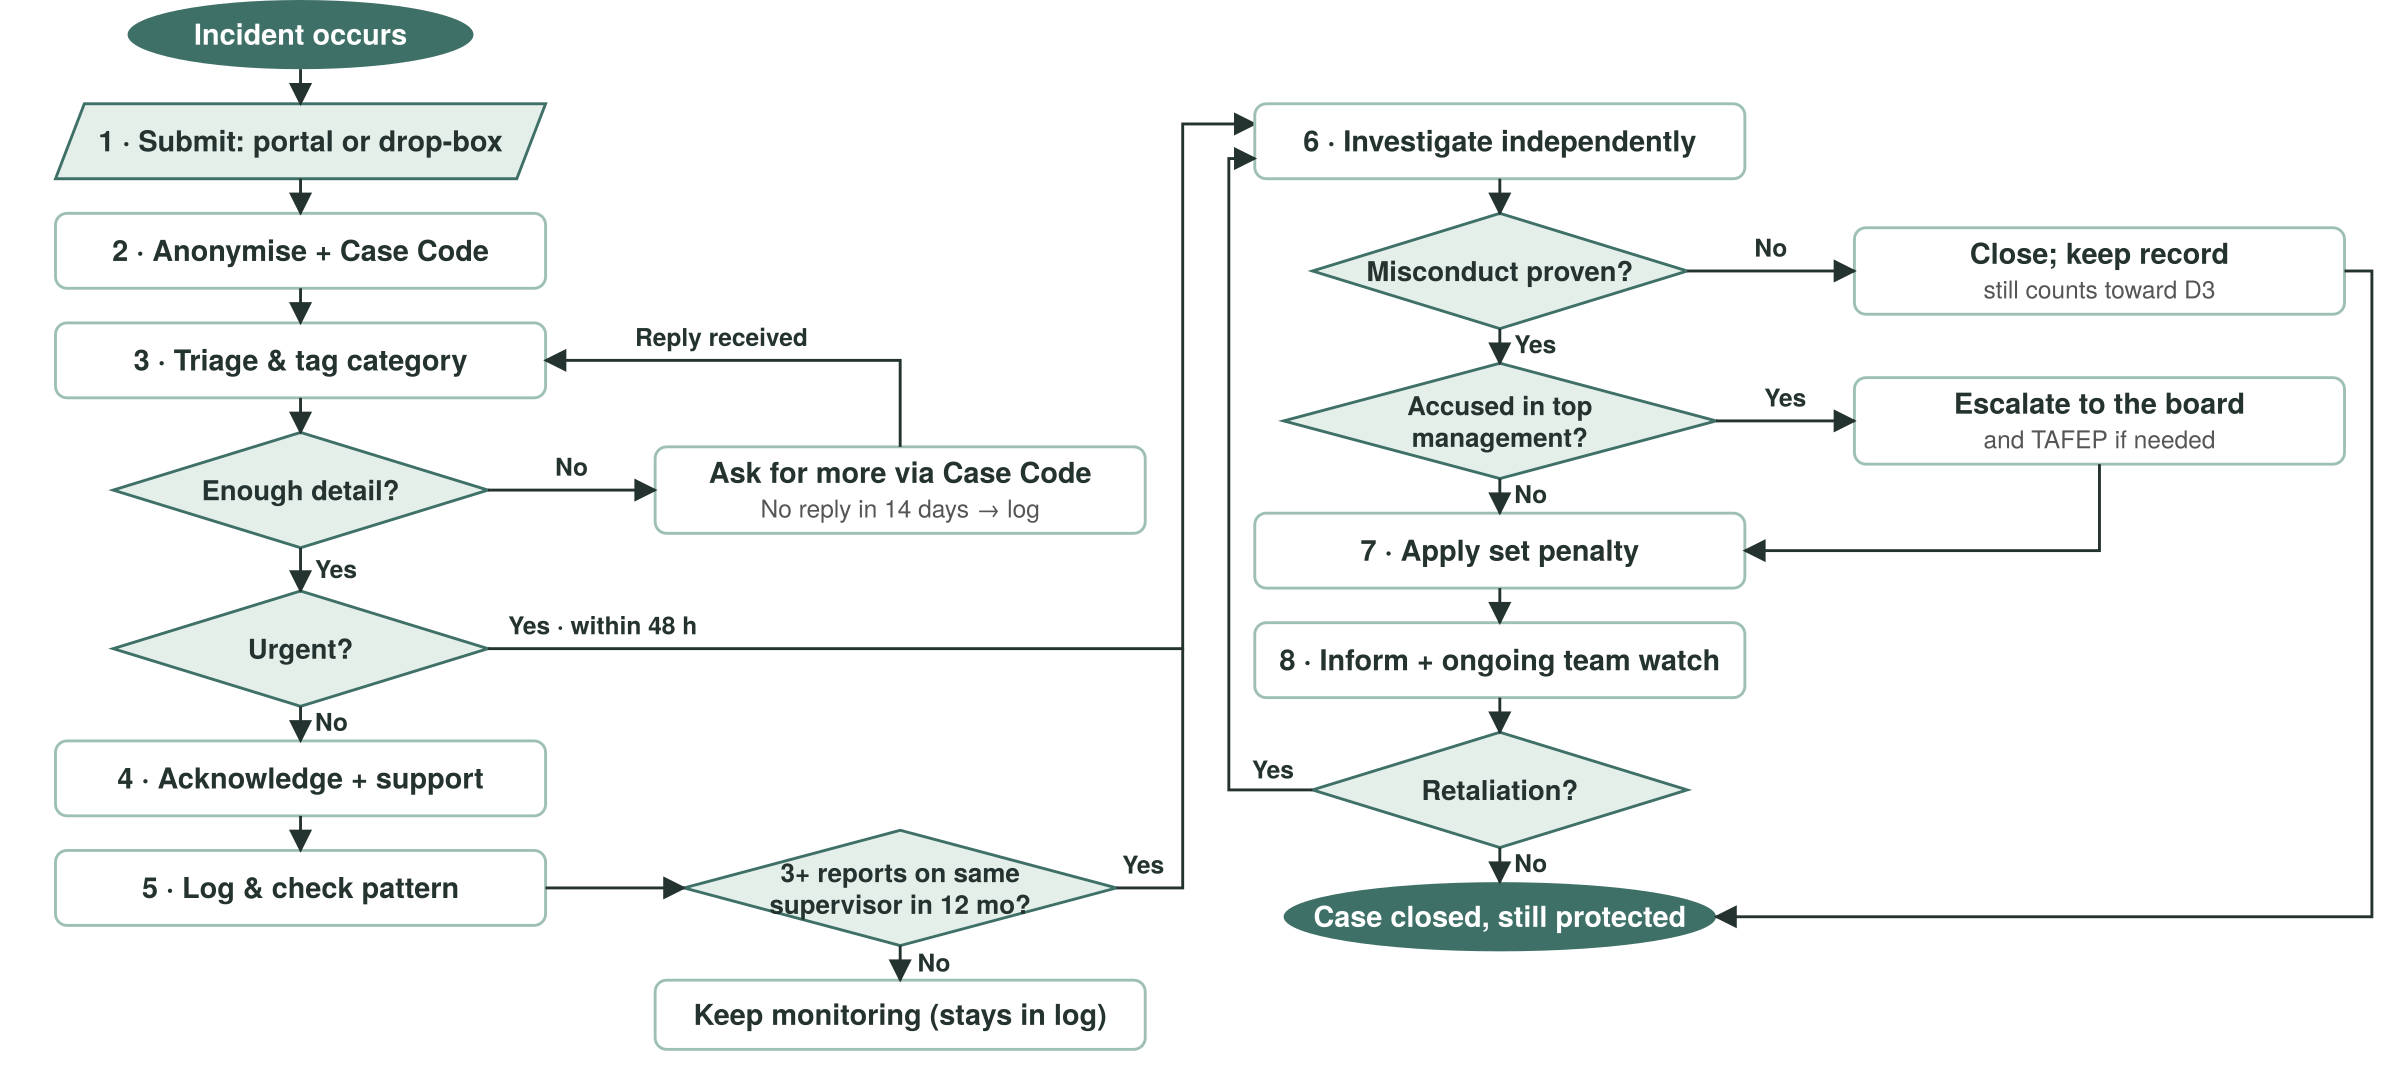
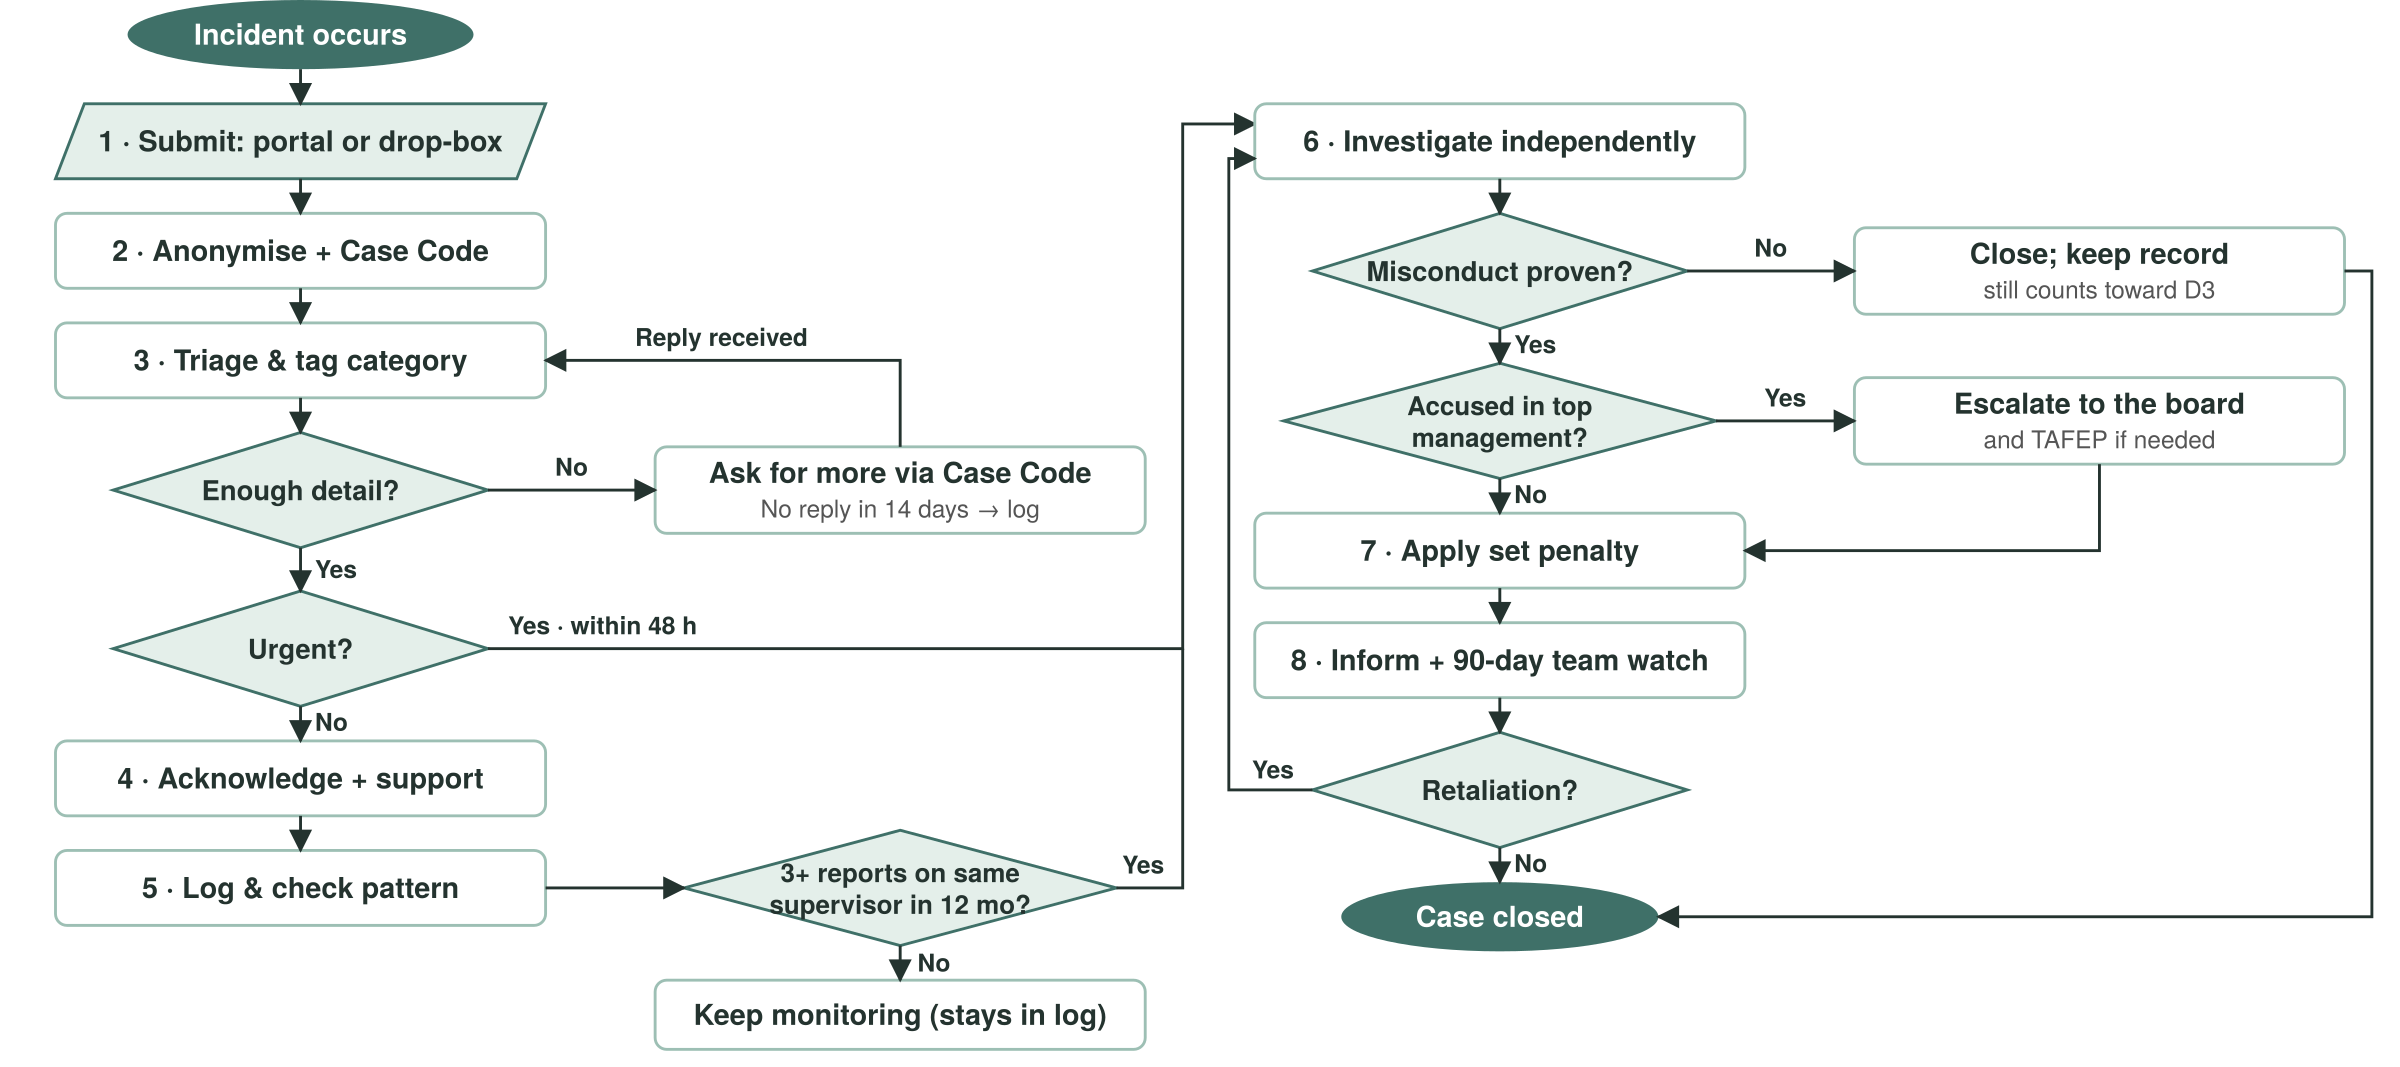
Change anti-retaliation protection back to a 90-day watch
Restore the 90-day watch across the hero, solution parts, steps, FAQ,
case tracker stages, README and flowchart, to match the presentation.

Claude-Session: https://claude.ai/code/session_013YJFtZv1miuyCez8THNWH7

Changed region(s): [[0.5312, 0.5876, 0.7188, 0.6495], [0.5312, 0.8351, 0.7188, 0.8969]]

diff --git a/index.html b/index.html
@@ -50,7 +50,7 @@
         <div class="hero-card" aria-label="SpeakSafe promises">
           <div class="promise"><span class="promise-num">48 h</span><span class="promise-txt">Urgent cases investigated</span></div>
           <div class="promise"><span class="promise-num">0</span><span class="promise-txt">Names, staff IDs or IP addresses stored</span></div>
-          <div class="promise"><span class="promise-num">Always</span><span class="promise-txt">Protection from retaliation, with no time limit</span></div>
+          <div class="promise"><span class="promise-num">90 days</span><span class="promise-txt">Protection from retaliation after every outcome</span></div>
         </div>
       </div>
     </section>
@@ -93,7 +93,7 @@
           <article class="part"><span class="part-num">03</span><h3>Independent third party</h3><p>Reports go to an external investigator, never your line manager or internal HR.</p></article>
           <article class="part"><span class="part-num">04</span><h3>Fixed triage rules</h3><p>Urgent cases are investigated within 48 hours. Three or more reports on one supervisor in 12 months trigger an audit.</p></article>
           <article class="part"><span class="part-num">05</span><h3>Zero-tolerance penalties</h3><p>Set penalties for proven abuse. Cases about top management go to the board, so no one decides their own penalty.</p></article>
-          <article class="part"><span class="part-num">06</span><h3>Protection with no time limit</h3><p>Your team is watched for sudden dismissals, pay cuts or transfers for as long as you work there.</p></article>
+          <article class="part"><span class="part-num">06</span><h3>90-day protection</h3><p>Your team is watched for sudden dismissals, pay cuts or transfers for 90 days after every outcome.</p></article>
           <article class="part"><span class="part-num">07</span><h3>Prevention training</h3><p>Every manager completes yearly anti-bullying training.</p></article>
         </div>
       </div>
@@ -112,7 +112,7 @@
           <li class="step"><span class="step-num">5</span><div><h3>Log &amp; check for a pattern</h3><p>Anonymised details are stored.</p><p class="decision">3+ reports on one supervisor in 12 months? Yes → formal audit.</p></div></li>
           <li class="step"><span class="step-num">6</span><div><h3>Investigate</h3><p>An independent third party gathers evidence. Your name is never revealed.</p><p class="decision">Proven? No → case closed, record kept.</p></div></li>
           <li class="step"><span class="step-num">7</span><div><h3>Penalise</h3><p>Warning, coaching, reassignment or termination, matched to severity.</p><p class="decision">Top management? Yes → escalated to the board or TAFEP.</p></div></li>
-          <li class="step"><span class="step-num">8</span><div><h3>Protect</h3><p>You are told the outcome, and your team stays protected with no time limit.</p><p class="decision">Retaliation? Yes → new urgent case.</p></div></li>
+          <li class="step"><span class="step-num">8</span><div><h3>Protect</h3><p>You are told the outcome, and your team is watched for 90 days.</p><p class="decision">Retaliation? Yes → new urgent case.</p></div></li>
         </ol>
         <figure class="flowchart">
           <img src="assets/flowchart.png" alt="Flowchart of the SpeakSafe process, from incident to case closed, showing the six yes or no decisions" loading="lazy">
@@ -195,7 +195,7 @@
           <details><summary>How can you investigate if you don't know who I am?</summary><p>The investigator talks to you through your Case Reference Code, and interviews witnesses and checks records without saying who reported.</p></details>
           <details><summary>What if someone files false reports?</summary><p>One report alone never leads to a penalty. Misconduct must be proven by an independent investigation. Three reports about one supervisor only start a review.</p></details>
           <details><summary>What if the person is in top management?</summary><p>The third party escalates the case to the board of directors (and TAFEP if needed), so no one decides their own penalty.</p></details>
-          <details><summary>What if I am punished after reporting?</summary><p>Your whole team stays protected with no time limit, even after your case closes. Any dismissal, pay cut, transfer or poor appraisal needs a documented reason. Signs of retaliation open a new urgent case.</p></details>
+          <details><summary>What if I am punished after reporting?</summary><p>Your whole team is watched for 90 days after the outcome. Any dismissal, pay cut, transfer or poor appraisal needs a documented reason. Signs of retaliation open a new urgent case.</p></details>
           <details><summary>I don't use a computer at work. Can I still report?</summary><p>Yes. Camera-free drop-boxes are placed in private spots and emptied twice a week. Each box has a hotline and QR code for urgent cases.</p></details>
         </div>
       </div>

diff --git a/script.js b/script.js
@@ -140,8 +140,8 @@
     'Triage by the independent third party',
     'Investigation',
     'Outcome decided',
-    'Case closed',
-    'Ongoing protection (no time limit)'
+    '90-day anti-retaliation watch',
+    'Case closed'
   ];
 
   trackForm.addEventListener('submit', function (e) {

diff --git a/README.md b/README.md
@@ -4,7 +4,7 @@ A responsive prototype website for **SpeakSafe**, our CA2 solution for *Problem 
 
 **Problem statement:** How can we safeguard employees in Singapore against workplace bullying and the misuse of authority?
 
-SpeakSafe is an independent, anonymous reporting system. Reports go to a neutral third party instead of the employee's boss or HR. There are fixed triage rules (48-hour urgent investigations, an audit after 3+ reports on one supervisor) and anti-retaliation protection with no time limit.
+SpeakSafe is an independent, anonymous reporting system. Reports go to a neutral third party instead of the employee's boss or HR. There are fixed triage rules (48-hour urgent investigations, an audit after 3+ reports on one supervisor) and a 90-day anti-retaliation watch.
 
 ## What's on the site
 
